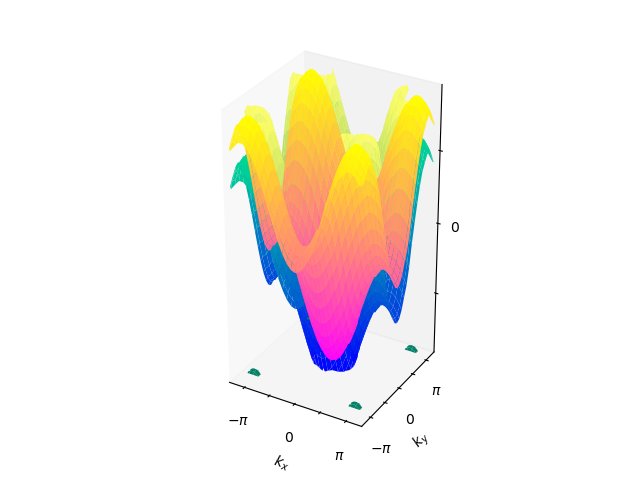
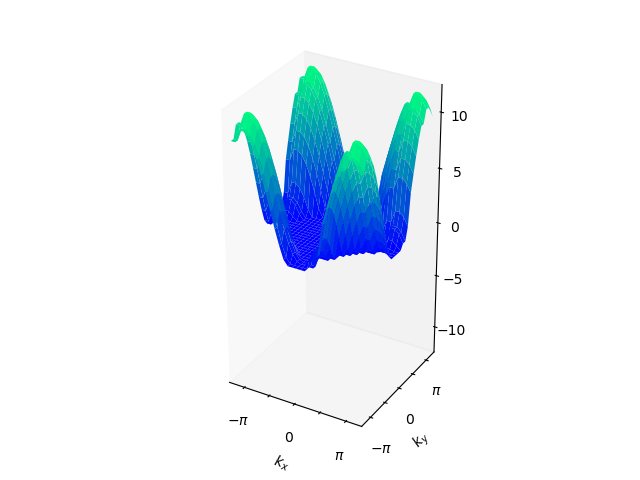
update

diff --git a/test.py b/test.py
@@ -7,43 +7,43 @@ import numpy as np
 import matplotlib.pyplot as plt
 
 #KAGOME
-#a_1 = np.transpose(np.array([[1,0]]))
-#a_2 = np.transpose(np.array([[0.5, 0.5*3**0.5]]))
-#a_3 = a_2 - a_1
-#r_a = a_3 / 2
-#r_b = a_2 / 2
-#r_c = a_1 / 2
-#offsets = np.array([r_a, r_b, r_c])
+a_1 = np.transpose(np.array([[1,0]]))
+a_2 = np.transpose(np.array([[0.5, 0.5*3**0.5]]))
+a_3 = a_2 - a_1
+r_a = a_3 / 2
+r_b = a_2 / 2
+r_c = a_1 / 2
+offsets = np.array([r_a, r_b, r_c])
 
-#H = kagome_hamiltonian_driven(0,3,-3,1,1,2,0,6,0)
+H = kagome_hamiltonian_driven(0,3,-3,1,1,2,0,6,0)
 
 #SQUARE
-a_1 = np.transpose(np.array([[1,0]]))
-a_2 = np.transpose(np.array([[0,1]]))
-r = np.transpose(np.array([[0,0]]))
-offsets = np.array([r,r,r])
+#a_1 = np.transpose(np.array([[1,0]]))
+#a_2 = np.transpose(np.array([[0,1]]))
+#r = np.transpose(np.array([[0,0]]))
+#offsets = np.array([r,r,r])
 
-H = square_hamiltonian_driven(0,-1,1,0,0,0,1,1,1,0,0,0,1,1,0,8,0)
+#H = square_hamiltonian_static(0,0,0,0,0,0,1,1,1,1,1,1,1)
 
-energies,_ = compute_bandstructure2D(H,a_1,a_2,100,8,100)
-plot_bandstructure2D(energies,a_1,a_2,'test.png')
+#energies,_ = compute_bandstructure2D(H,a_1,a_2,25,regime='static')
+#plot_bandstructure2D(energies,a_1,a_2,'test.png', regime='static', bands_to_plot=np.array([0,0,1]))
 
 
 
 
 # ZAK PHASES
-#start = np.transpose(np.array([[0,0]]))
-#end = np.transpose(np.array([[1,0]]))
+start = np.transpose(np.array([[0,0]]))
+end = np.transpose(np.array([[1,0]]))
 
-#zak_phase1, energies1 = compute_zak_phase(H,a_1,a_2,offsets,start,end,100,6,100)
+zak_phase1, energies1 = compute_zak_phase(H,a_1,a_2,offsets,start,end,100,6,100)
 #zak_phase2, energies2 = compute_zak_phase_wilson_loop(H,a_1,a_2,offsets,start,end,100,6,100)
 
-#print(zak_phase1 / np.pi)
+print(zak_phase1 / np.pi)
 #print(zak_phase2 / np.pi)
 
-#plt.plot(energies1[:,0], label='energies1 0')
-#plt.plot(energies1[:,1], label='energies1 1')
-#plt.plot(energies1[:,2], label='energies1 2')
+plt.plot(energies1[:,0], label='energies1 0')
+plt.plot(energies1[:,1], label='energies1 1')
+plt.plot(energies1[:,2], label='energies1 2')
 #plt.plot(energies2, label='energies2')
-#plt.legend()
-#plt.show()
+plt.legend()
+plt.show()
